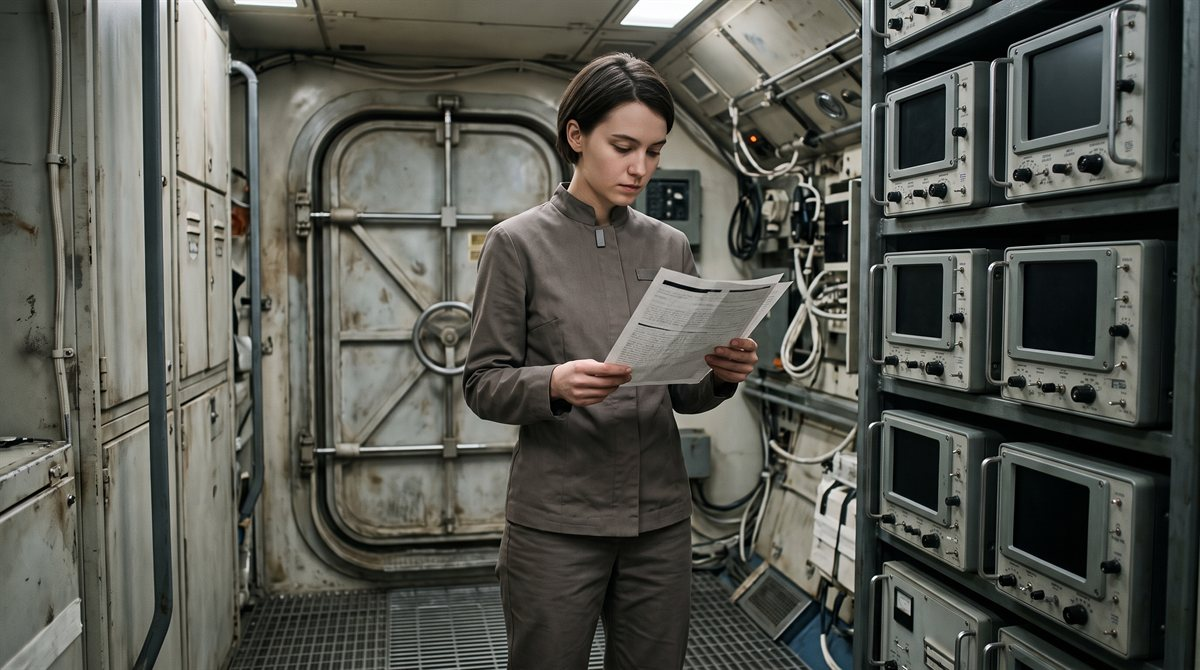
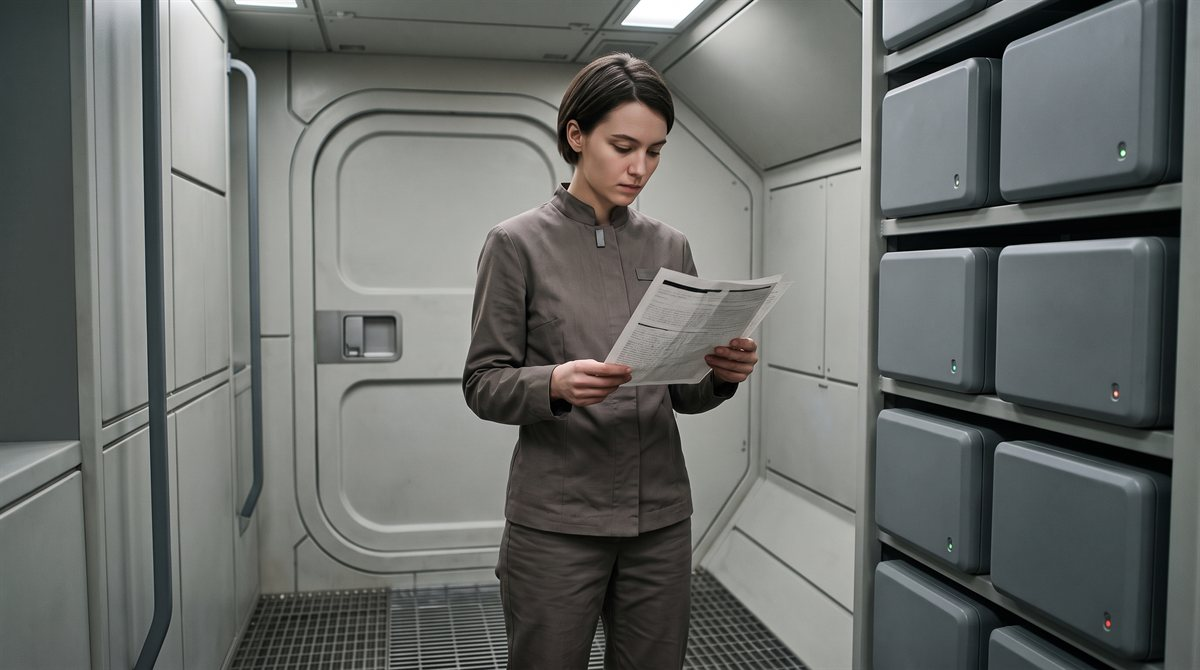
Iklix Varn re-rolled on the old-fashioned-instruments reservation; rank insignia made canon
Dermot's reservation of 4 September 2026 was right: the approved portrait's instruments read as twentieth-century test gear. The approved image is kept as a reference under story-bible/reference-art, the prompt revised in images.md to sealed housings, and re-roll 1 filed on his Agreed, read as covering the stated lean and flagged in the intake. His question on a Deputy's insignia became Reading Rank at a Glance on the rank page: the tab as the single mark, the bar count made explicit, the six track colours, an extension under the canon rule; the uniforms note's proposal sections are struck as canon. Intake, open-questions, image-prompts and CHANGELOG record it.

diff --git a/story-bible/images.md b/story-bible/images.md
@@ -1512,7 +1512,9 @@ character pages. The four Chthonari were generated and filed the same evening
 at Dermot's direction, picks approved by him (run and picks in
 `image-prompts.md`); Iklix Varn followed later the same evening once Dermot
 had said what Varn looks like — lean build, dark hair, quiet bearing — and
-approved the pick. All five are filed. The four Chthonari
+approved the pick — then re-rolled against that pick as a reference on his
+reservation that the instruments looked old-fashioned, and re-filed. All five
+are filed. The four Chthonari
 share one body from `src/lore/chthonari.md` and `species-design.md` — small
 (forearm-to-torso length), six-limbed, exoskeletal, low and dense, vibration
 organs along each limb and the lower carapace, no face a human reads — and the
@@ -1524,7 +1526,9 @@ with a bronze cast, the Undersong's nickel-iron in it.
 
 - **`iklix-varn.jpg`** — *one step further from the desk than they need to be.*
   *(Held until 4 September 2026, when Dermot said what Varn looks like — "lean build, dark hair, quiet bearing" — and those three things went into the prompt verbatim in sense. Nothing else about the face is decided by the record; the picked image will decide it, which is why the choice is his.)*
-  > Cinematic wide portrait of a young Star Rangers Deputy in their early twenties, lean in build, with short dark hair and a quiet, contained bearing, in plain grey-brown service dress with a small plain tab at the collar and no other marking, standing in a narrow instrument compartment on a space habitat's ring, six identical monitoring units racked along one wall with no readable displays, a closed hatch behind. The Deputy holds two printed documents, one longer than the other, and is reading the longer one standing up, not yet having been told to sit; the face is down toward the page, attentive and still, not posed to camera. Evenly lit, no lamp visible, the compartment worn and clean. Calm, attentive, unremarkable. 16:9 landscape. Absolutely no readable text, lettering, numerals, badges with words, name tapes, logos or written characters anywhere on the clothing, the documents, the units or the walls; no screens or glowing displays; no weapons; no dramatic lighting; no glamour styling, no cosmetics, no heroic pose.
+  *(Revised the same evening on Dermot's reservation about the approved variant 1 — "does the technology look too old fashioned?" — yes: the six units came out as twentieth-century test gear, analogue meters, toggle switches and small tube screens in a rack, and the compartment as a mid-century submarine. Old instruments are canon; that idiom is not — Barsik's filing cabinets again. The person is now pinned to the approved image as a reference and the units described as sealed plain housings.)*
+  References: `story-bible/reference-art/iklix-varn-approved-2026-09-04.jpg`
+  > Cinematic wide portrait of exactly the same young person as in the reference image — the same face, short dark hair, lean build and quiet, contained bearing — in the same plain grey-brown service dress with a small plain tab at the collar and no other marking, standing in a narrow instrument compartment on a space habitat's ring and reading the longer of two printed documents held in both hands, eyes down on the page, still, not posed to camera. The compartment is the same worn, clean, evenly lit space, but the six monitoring units racked along one wall are plain sealed matte housings of one design, smooth flat fronts with a single small recessed indicator each and nothing else on them: no dials, no gauges, no meters, no knobs, no toggle switches, no screens, no keyboards, no exposed cables, no vents, no labels. Walls plain composite panels with honest seams; a closed hatch with a flush handle behind; no wheel valve, no pipework, no wiring looms. Nothing in the compartment that would look at home in a twentieth-century submarine or laboratory. Calm, attentive, unremarkable. 16:9 landscape. Absolutely no readable text, lettering, numerals, badges with words, name tapes, logos or written characters anywhere on the clothing, the documents, the units or the walls; no screens or glowing displays; no weapons; no dramatic lighting; no glamour styling, no cosmetics, no heroic pose.
 
 - **`tikket.jpg`** — *the first to hear it.*
   > Cinematic wide view of a small six-limbed exoskeletal being, forearm-to-torso length, built low and dense, standing on bare structural plating in the understructure beneath a space habitat's dock ring, all six limbs in contact with a heavy mounting bracket bolted through the deck, the body pressed close to it as if listening through it. Dull slate carapace with a bronze cast, matte, no gloss; fine sensory ridges along each limb; a smooth head with no face a human would read, no mandibles, no visible mouth. Dim, even working light from an unseen source, girders and conduit receding into shadow, nothing else on the deck. Quiet, still, attentive, faintly uncanny and entirely unthreatening. 16:9 landscape. Absolutely no readable text, lettering, numerals, signage or logos; no screens; no swarm, no second creature, no gore, no dripping, no threat posture; no anthropomorphic face.

diff --git a/src/lore/star-rangers-command-hierarchy.md b/src/lore/star-rangers-command-hierarchy.md
@@ -45,6 +45,19 @@ From entry to apex, in order of seniority:
 - **Council of High Captains** — every serving High Captain, sitting together. The Council sets Corps-wide operational policy: how the charter's constraints get applied in practice, where deployment priorities sit when boundary events compete for the same limited response capacity, how doctrine changes when a Safety Corps finding demands it.
 - **Triumvirate** — three seats, drawn from and seated by the Council of High Captains, standing at its head. The Triumvirate chairs the Council, issues Corps-wide directives between full Council sessions, and is the single point of contact the Oversight Council holds accountable for the Corps' conduct under the charter.
 
+## Reading Rank at a Glance
+
+Rank is worn as a single mark: a small, hard-edged tab or plate, plain-finished, magnetically seated proud of the surface and visibly removable, never sewn on. The charter's neutrality clause bars anything more — no crest, no world-of-origin flag, no emblem that would let one side of a dispute read the Rangers as the other's. The same tab is worn on a human collar, seated on a Krenyi or Serephine shell at the corresponding point, and bolted to a robotic chassis such as Rook-7's hull, so that a rank is read the same way on every body the Corps fields.
+
+What the tab carries is read in three tiers, and the three are not conflated:
+
+- **Novice to Section Lead** — a plain bar count, one bar more per rung. A Novice wears one; a Cadet two; a Deputy three; a Field Officer four; a Senior five; a Principal six; a Section Lead seven. At arm's length a Deputy's three bars say what a Deputy is: trusted to work, under supervision, and not yet to act alone.
+- **Chief**, the hinge rank — a bar and a ring together, the last mark on the ladder to carry a track insert.
+- **Starwarden to High Captain** — rings only, one more per rung, and no track insert at all. Above Chief the mark says what post an officer holds, not what track they climbed to reach it.
+- **The Council of High Captains and the Triumvirate** wear a seal rather than a tab: a seated body, not a rank.
+
+The tab's colour is keyed to **service track**, never to corps, because the framers wanted a mark that told a stranger *what kind of authority this person holds*, not *which department they answer to*: general operations in slate blue, survey in pale grey-green, boundary safety in amber, piloting and navigation in deep indigo, security and provost in oxblood, engineering in copper — all muted, so the tab reads as information rather than decoration. The garment's colour carries the corps, and the two systems are kept on separate carriers on purpose, so that nobody can assume the second from the first. Beside the rank tab a Ranger may wear a certification mark — the significant one being *certified boundary analyst*, issued only by the Safety Corps — and below it any decorations; the three say, in order, what a Ranger is trusted to command, what they are trusted to be right about, and what they have done.
+
 ## Guild Leadership: The Corps Aren't Commanded
 
 The rank ladder above governs seniority and who answers for what. It does not govern who sets standards within a specialization, because the charter's framers did not want the same chain of command holding both kinds of authority over the same person.

diff --git a/CHANGELOG.md b/CHANGELOG.md
@@ -14,6 +14,8 @@ The format loosely follows [Keep a Changelog](https://keepachangelog.com/en/1.1.
 
 - **Portraits for the Chthonari crew** — `tikket.jpg`, `kattik.jpg`, `tekka.jpg`, `tsikk.jpg` (2026-09-04, generated at Dermot's direction and the picks approved by him the same evening; run recorded in `story-bible/image-prompts.md`). Twelve images in two runs: Tikket and Tsikk came back on the crew's body first time; Kattik and Tekka drifted into a crouching humanoid, one on a present-day tablet and one with a mouth full of teeth, and were re-rolled against the Tsikk image as a reference with the prompts revised in place in `images.md`. Filed at 1200×670 over the PORTRAIT PENDING cards, alt text rewritten to describe each picked image. Three of the four share one ring setting, the reference having carried it, which was said before he chose. Iklix Varn's card stands and the prompt stays held.
 - **Portrait for Iklix Varn** — `iklix-varn.jpg` (2026-09-04, later the same evening, once Dermot said what the Deputy looks like — *lean build, dark hair, quiet bearing* — and approved the pick; run recorded in `story-bible/image-prompts.md`). Two variants, both on his three words, differing in the face; variant 1 filed at 1200×670 over the card, the wider frame with the whole compartment, the six units and the hatch, the Deputy reading the longer document standing up. The page now carries his three words as the one physical description the record holds, and the alt text describes the picture. All five Season 10 portraits are filed.
+- **Iklix Varn's portrait re-rolled on Dermot's reservation** (2026-09-04, *does the technology look too old fashioned?* — it did: twentieth-century meters, toggles and tube screens in a rack, the Barsik-cabinets failure again). The approved image was kept as a reference so the person would hold, the prompt revised in `story-bible/images.md` to sealed matte housings with a single indicator, and re-roll 1 filed on his *Agreed*, read as covering the stated lean; the first run is kept aside and the swap back is one command if that reading was wrong. Alt text updated.
+- **Rank insignia made canon — *Reading Rank at a Glance* on [Rank and the Chain of Command](src/lore/star-rangers-command-hierarchy.md)** (2026-09-04, Dermot's *Agreed* on the three shapes put to him after he asked what a Deputy's insignia is; an extension under the canon rule). The tab as the single mark, magnetically seated and plain, and why the neutrality clause allows nothing more; the bar count made explicit, Novice one to Section Lead seven, a Deputy three; Chief's bar-and-ring; rings only above; a seal for the Council and the Triumvirate; the six track colours, muted, on the tab and never on the garment; certification mark and decorations as the other two of three marks never conflated. The uniforms note's two proposal sections are struck through as canon since this date. Portraits keep their plain tabs, which is what canon specifies at that scale.
 
 ## [1.32.0] — 2026-09-04
 

diff --git a/story-bible/intake-2026-09-04.md b/story-bible/intake-2026-09-04.md
@@ -716,6 +716,46 @@ is one command. Filed at 1200×670 over the card, alt text describing the
 picture, the run recorded in `image-prompts.md`. All five Season 10
 portraits are now filed. Nothing else open on the cast.
 
+## Twenty-fourth, same session — "Variant 1 approved with one reservation. Does the technology look too old fashioned?"
+
+Dermot, verbatim, as the heading. The approval confirms the reading above
+(variant 1). The reservation was right: the six units had come out as
+twentieth-century test gear — analogue meters, toggle switches, small tube
+screens in a rack — and the compartment as a mid-century submarine. The
+record can defend old instruments (the chapter calls them "a record older
+than the Compact") but not that idiom; it is Barsik's filing cabinets again
+(3 September), and the same remedy: the approved image kept as a reference
+(`story-bible/reference-art/iklix-varn-approved-2026-09-04.jpg`), the prompt
+revised on record to sealed matte housings with a single indicator, plain
+panels, a flush hatch handle, and re-rolled. Both re-rolls held the face and
+the stance. Put to him as a pair with the lean stated for re-roll 1.
+
+## Twenty-fifth, same session — "deputy star ranger rank insignia"
+
+Dermot, verbatim. Answered from the record: canon fixes a plain-finished,
+magnetically seated tab keyed to service track and nothing more; the
+uniforms note's bar count (one bar more per rung, Novice to Section Lead)
+and its six track colours were proposals; the portrait's bare grey tab
+breaks no rule and is silent on the proposal, as Zoe Smith's is. Three
+shapes put — leave the tab; adopt the system as canon and re-roll the tabs
+on both portraits; adopt the system and leave the portraits — with the lean
+stated for the first on the portrait and the third on the system.
+
+**RULED — "Agreed."** Read as the two leans: the tab stays; the bar count
+and the track colours are canon. Realized as *Reading Rank at a Glance* on
+`src/lore/star-rangers-command-hierarchy.md` — an extension under the canon
+rule, adding without altering: the tab as the single mark and why; the
+three tiers (bar count with the count made explicit, Novice one to Section
+Lead seven, Deputy three; Chief's bar-and-ring; rings above; a seal for the
+seated bodies); the six track colours, muted; the certification mark and
+decorations as the other two of three marks never conflated. The uniforms
+note's two proposal sections are struck through as canon since this date.
+**Reading flagged:** "Agreed" was also read as covering the lean stated in
+the same breath for the compartment re-roll, so **re-roll 1 was filed** over
+the approved variant; if the word was for the insignia only, the approved
+variant is kept at `image-out/characters-iklix-varn-run1/filed-variant-1-1200.jpg`
+and the swap back is one command. **Confirm.**
+
 ## Fifth, same session — the winged figures in four-islands-quest
 
 Dermot, verbatim:

diff --git a/src/characters/iklix-varn.md b/src/characters/iklix-varn.md
@@ -9,7 +9,7 @@ aliases: []
 tags: [human, star-rangers, deputy, boundary-watch, eden, orbital-five-o, orbital-habitats-compact, season-10]
 description: "A Deputy on a first posting to a watch that does not watch anything, sent across Eden's ring to fetch a contractor's log — and back with the one line in it that belongs to nobody."
 image: "iklix-varn.jpg"
-image_alt: "Iklix Varn, a lean young person with short dark hair, in plain grey-brown Star Rangers service dress with a small tab at the collar, standing in a narrow, worn instrument compartment on a space habitat's ring reading a printed document held in both hands, eyes down on the page. A rack of six identical monitoring units fills the wall to the right, and a closed hatch with a wheel stands behind."
+image_alt: "Iklix Varn, a lean young person with short dark hair, in plain grey-brown Star Rangers service dress with a small tab at the collar, standing in a narrow, evenly lit instrument compartment on a space habitat's ring reading a printed document held in both hands, eyes down on the page. A rack of identical sealed grey monitoring housings, each with a single small indicator light, fills the wall to the right; a closed hatch with a flush handle stands behind, and the floor is open grating."
 ---
 
 Iklix Varn holds the rank most Deputies hold for exactly as long as it takes to stop being new at it, and is, in the spring of 2828 UCSD, still new at it. Their first field posting is the fold-approach watch on [Eden Space Habitat](/star-rangers/lore/eden-space-habitat/) — a compartment on the fold-approach side of the ring, behind a hatch the habitat's residents walk past without seeing, where six cross-correlated instruments file their agreement with each other every ninety seconds and the nearest qualified officer stands a shift in case the event comes. It has not come in [Zoe Smith](/star-rangers/characters/zoe-smith/)'s tenure. She said so on Varn's first day, as a fact about the posting and not as a comfort, and Varn understood that it was neither.

diff --git a/story-bible/image-prompts.md b/story-bible/image-prompts.md
@@ -740,3 +740,25 @@ of one kind on all four, no torso, no arms, no upright posture.
 - **What this fixes.** The picked image is now the record's only account of
   Varn's face; the page carries his three words and the alt text describes
   the picture, and neither says more than that.
+- **Re-rolled the same evening on his reservation** — *"Variant 1 approved
+  with one reservation. Does the technology look too old fashioned?"* Yes:
+  the six units were twentieth-century test gear, meters, toggles and tube
+  screens in a rack, and the compartment a mid-century submarine; Barsik's
+  filing cabinets again. The approved image was copied to
+  `story-bible/reference-art/iklix-varn-approved-2026-09-04.jpg` and used
+  as `References:` so the person would hold, and the prompt revised to
+  sealed matte housings with a single indicator each, plain composite
+  panels, a flush hatch handle, nothing that would look at home in a
+  submarine. Both re-rolls kept the face and the stance exactly. **Pick:
+  re-roll 1** — indicator lights, flush handle, grating underfoot, the
+  compartment lit as before; re-roll 2 was plainer and a shade closer to a
+  locker room. Filed on his "Agreed", read as covering the lean stated for
+  the re-roll as well as the insignia leans of the same message; flagged in
+  the intake. Run 1 kept as `image-out/characters-iklix-varn-run1/` (both
+  variants and the 1200-px filed copy), run 2 as `characters-iklix-varn-run2/`.
+- **Insignia check, same evening.** He asked what a Deputy's rank insignia
+  is. Canon fixes a plain-finished, magnetically seated tab keyed to track;
+  the bar count and track colours were proposals in `uniforms-and-insignia.md`
+  until he agreed to adopt them the same evening, and the portrait's bare
+  grey tab was left as it is — what canon specifies, at a scale where three
+  bars would be a few pixels. Zoe Smith's portrait carries the same bare tab.

diff --git a/story-bible/open-questions.md b/story-bible/open-questions.md
@@ -1371,8 +1371,10 @@ Lean recorded for the second or third. Open:
   him** (run recorded in `image-prompts.md`). ~~**Varn's prompt is held** until
   he says what Varn looks like; the card stands.~~ — **he said it the same
   evening ("lean build, dark hair, quiet bearing"); variant 1 filed on his
-  "Approved", read as approving the stated lean — confirm.** All five Season
-  10 portraits filed. ~~**Iklix Varn's
+  "Approved" — confirmed by his next message, with a reservation that the
+  instruments looked old-fashioned; re-rolled against the approved face and
+  re-roll 1 filed on his "Agreed", read as covering that lean too —
+  confirm.** All five Season 10 portraits filed. ~~**Iklix Varn's
   age**~~ — ruled the same day. Season 10's first two chapters are canon.
 - ~~**The convergence** (two readings of one structure recommended; the
   jurisdiction meeting; both in order)~~ — **ruled 4 September 2026: two
@@ -1477,3 +1479,12 @@ corruption at the margins only). Four readings, all confirmed:
 
 - **Where on the ladder of causes the season's later chapters stop** —
   authorship.
+
+## Rank insignia — `intake-2026-09-04.md`, twenty-fifth message — RULED 4 September 2026
+
+**RULED the same evening ("Agreed"): the bar count and the six track colours are canon, on the rank page as *Reading Rank at a Glance*; portraits keep their plain tabs. Nothing open.**
+
+Dermot asked what a Deputy's rank insignia is. Canon fixed only a plain
+magnetically seated tab keyed to track; the uniforms note's bar count and
+track colours were proposals. Three shapes put; he took the leans — leave
+the portrait's tab, adopt the system on the page.

diff --git a/story-bible/uniforms-and-insignia.md b/story-bible/uniforms-and-insignia.md
@@ -74,6 +74,14 @@ austere.** No braid, no epaulettes, no ribbon-bar clutter, nothing gold.
 
 ## Reading rank at a glance
 
+**Canon since 4 September 2026** — Dermot's "Agreed" on the three shapes put
+to him after asking about a Deputy's insignia (`intake-2026-09-04.md`,
+twenty-fourth message). The table below and the track colours further down
+are now on `src/lore/star-rangers-command-hierarchy.md` as *Reading Rank at a
+Glance*, with the bar count made explicit (Novice one, Deputy three, Field
+Officer four, Section Lead seven). Portraits are left as they are: a plain
+tab is what canon specifies at portrait scale.
+
 | Tier | Mark |
 |---|---|
 | Novice → Section Lead | plain **bar count**, one more bar per tier |
@@ -126,9 +134,11 @@ Muted and industrial, so a hangar full of Rangers reads as one service:
 - **Frontier Corps** — dust brown
 - **Engineering Corps** — graphite with copper seam-piping
 
-## Proposed — track colours (the tab insert)
+## ~~Proposed~~ Canon since 4 September 2026 — track colours (the tab insert)
 
-Canon says tab colour is keyed to track but never names the colours. The lore
+*(The six colours below were adopted as canon with the bar count, same day,
+and now appear on the rank page verbatim.)* Canon said tab colour is keyed to
+track but until then never named the colours. The lore
 entry's own cover art is *"a blue chevron insignia emblem in a ringed seal"*, so
 blue is already associated with the Rangers generally. Suggested:
 
